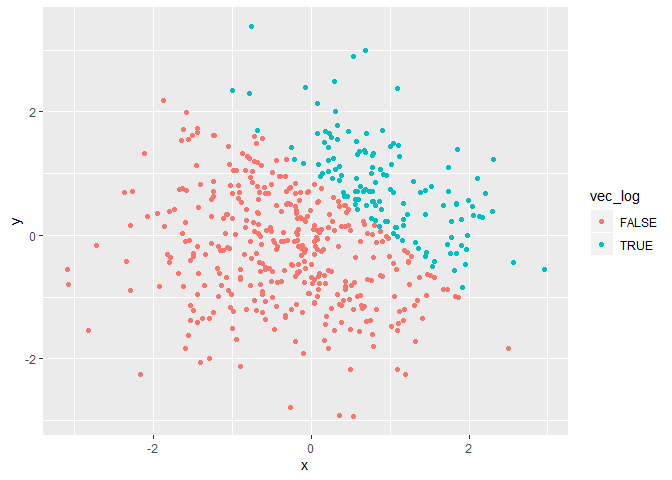
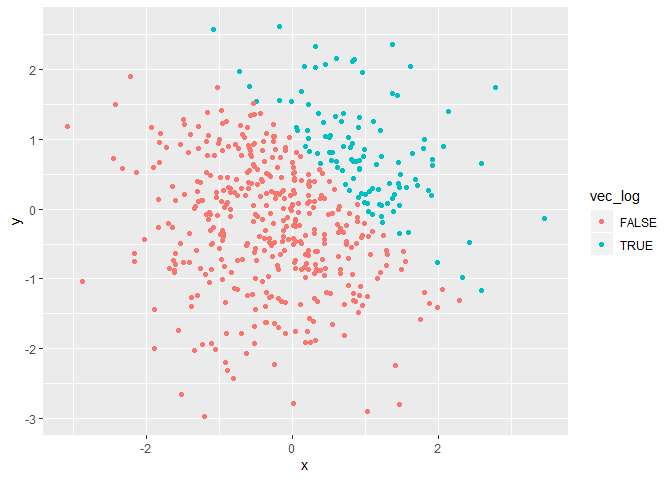
change the way to show proportion

diff --git a/p8105_hw1_xl2934.md b/p8105_hw1_xl2934.md
@@ -20,14 +20,14 @@ Create a data frame comprised of:
 library(tidyverse)
 ```
 
-    ## -- Attaching packages ------------------------------------------------------ tidyverse 1.2.1 --
+    ## -- Attaching packages ------------------------------ tidyverse 1.2.1 --
 
     ## √ ggplot2 3.2.1     √ purrr   0.3.2
     ## √ tibble  2.1.3     √ dplyr   0.8.3
     ## √ tidyr   0.8.3     √ stringr 1.4.0
     ## √ readr   1.3.1     √ forcats 0.4.0
 
-    ## -- Conflicts --------------------------------------------------------- tidyverse_conflicts() --
+    ## -- Conflicts --------------------------------- tidyverse_conflicts() --
     ## x dplyr::filter() masks stats::filter()
     ## x dplyr::lag()    masks stats::lag()
 
@@ -44,13 +44,13 @@ df = tibble(
 mean(pull(df, var_num))
 ```
 
-    ## [1] -0.1789508
+    ## [1] -0.7996117
 
 ``` r
 mean(pull(df, var_log))
 ```
 
-    ## [1] 0.625
+    ## [1] 0.25
 
 ``` r
 mean(pull(df, var_cha))
@@ -102,7 +102,7 @@ multi1 = pull(df, var_num) * as.numeric(pull(df, var_log))
 as.factor(pull(df, var_log))
 ```
 
-    ## [1] TRUE  TRUE  FALSE TRUE  FALSE TRUE  TRUE  FALSE
+    ## [1] TRUE  FALSE FALSE FALSE FALSE FALSE TRUE  FALSE
     ## Levels: FALSE TRUE
 
 ``` r
@@ -117,8 +117,8 @@ multi3 = pull(df, var_num) * as.numeric(as.factor(pull(df, var_log)))
 multi3
 ```
 
-    ## [1]  0.6822300  0.2053610 -1.6302878  0.7545011 -1.9151728  1.9699968
-    ## [7]  2.7254404 -1.0549106
+    ## [1]  3.0597038 -0.5661246 -1.0574568 -0.6756083 -1.3188382 -2.7271636
+    ## [7]  1.1682642 -2.1656858
 
 # Problem 2
 
@@ -137,15 +137,11 @@ df2 = tibble(
   vec_num = as.numeric(vec_log),
   vec_fac = as.factor(vec_log),
 )
-summary(pull(df2, vec_fac))
 ```
 
-    ## FALSE  TRUE 
-    ##   367   133
-
 This data frame has 500 rows and 5 columns. The mean of `x` is
-0.0019185. The median of `x` is 0.0348915. The standard deviation of `x`
-is 1.0459137. The proportion of cases for which `x + y > 1` is 367, 133
+-0.0411404. The median of `x` is -0.0291307. The standard deviation of
+`x` is 1.0050575. The proportion of cases for which `x + y > 1` is 0.22
 
 ``` r
 ggplot(df2, aes(x = x, y = y, colour = vec_log)) + geom_point() 
